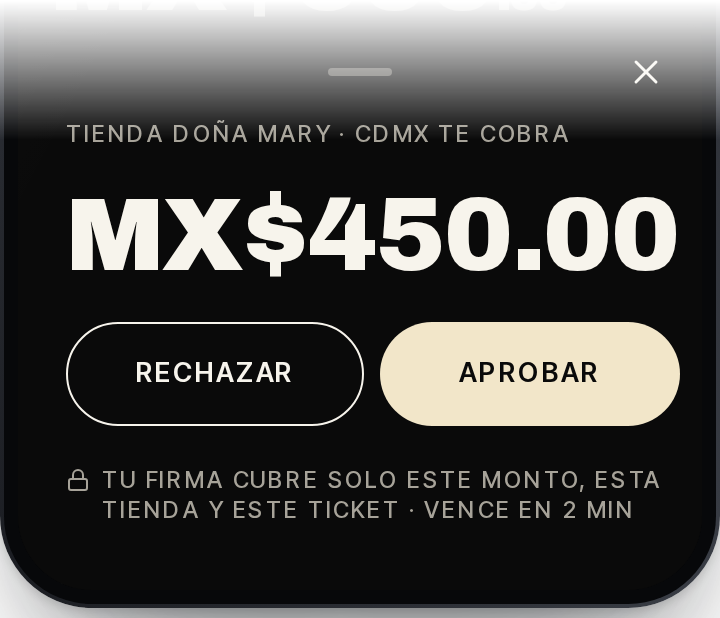
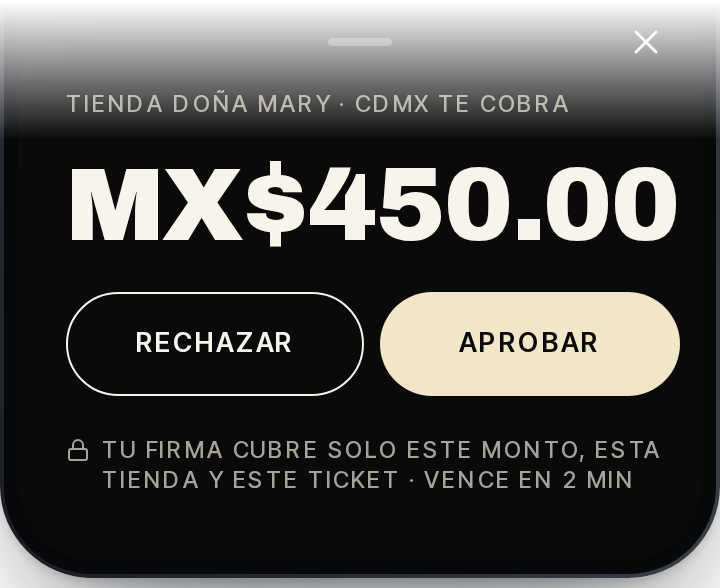
deck v8: sarape cover title (bright, high contrast), act-card cropped below the cut number, 1920x1080 previews of all 13 slides in deck/preview/v8

diff --git a/deck/project/slides/card.html b/deck/project/slides/card.html
@@ -9,7 +9,7 @@
 <svg style="position:absolute;left:710px;top:648px" width="44" height="20" viewBox="0 0 44 20"><path d="M2 10 H38 M30 3 L38 10 L30 17" stroke="#5A5A5A" stroke-width="2.5" fill="none" stroke-linecap="round" stroke-linejoin="round"/></svg>
 <div data-build-in="rise 5" style="position:absolute;left:760px;top:614px;width:260px;display:flex;flex-direction:column;gap:18px"><div style="width:88px;height:88px;border-radius:50%;border:2px solid #F2E6C9;display:flex;align-items:center;justify-content:center"><svg width="42" height="42" viewBox="0 0 24 24" fill="none" stroke="#F2E6C9" stroke-width="1.75" stroke-linecap="round" stroke-linejoin="round"><path d="M12 17V7"/><path d="M16 8h-6a2 2 0 0 0 0 4h4a2 2 0 0 1 0 4H8"/><path d="M4 3a1 1 0 0 1 1-1 1.3 1.3 0 0 1 .7.2l.933.6a1.3 1.3 0 0 0 1.4 0l.934-.6a1.3 1.3 0 0 1 1.4 0l.933.6a1.3 1.3 0 0 0 1.4 0l.933-.6a1.3 1.3 0 0 1 1.4 0l.934.6a1.3 1.3 0 0 0 1.4 0l.933-.6A1.3 1.3 0 0 1 19 2a1 1 0 0 1 1 1v18a1 1 0 0 1-1 1 1.3 1.3 0 0 1-.7-.2l-.933-.6a1.3 1.3 0 0 0-1.4 0l-.934.6a1.3 1.3 0 0 1-1.4 0l-.933-.6a1.3 1.3 0 0 0-1.4 0l-.933.6a1.3 1.3 0 0 1-1.4 0l-.934-.6a1.3 1.3 0 0 0-1.4 0l-.933.6a1.3 1.3 0 0 1-.7.2 1 1 0 0 1-1-1z"/></svg></div><p style="font-size:20px;text-transform:uppercase;letter-spacing:3px;font-weight:600;color:#8A8A8A">03</p><p style="font-size:32px;font-weight:600;line-height:1.2;color:#FFFFFF">Paid, with receipt</p></div>
 <p data-build-in="fade 6" style="position:absolute;left:128px;top:892px;width:960px;font-size:24px;text-transform:uppercase;letter-spacing:3px;font-weight:600;color:#8A8A8A">Local piece · <span style="color:#F2E6C9">a merchant acquiring partner</span></p>
-<img data-build-in="fade 6" src="/_blob/113d399841397bf0aede384ffb100f5b" alt="Mercado Card: Tienda Doña Mary asks for MX$450, with Rechazar and Aprobar, before approving" style="position:absolute;left:1191px;top:324px;width:560px;height:481px;object-fit:contain">
+<img data-build-in="fade 6" src="/_blob/113d399841397bf0aede384ffb100f5b" alt="Mercado Card: Tienda Doña Mary asks for MX$450, with Rechazar and Aprobar, before approving" style="position:absolute;left:1191px;top:336px;width:560px;height:457px;object-fit:contain">
 <p style="position:absolute;left:128px;bottom:64px;width:1200px;font-family:'Inter Tight', Arial, sans-serif;font-size:24px;color:#8A8A8A;text-transform:uppercase;letter-spacing:3px;font-weight:600">Mercado</p>
 <p style="position:absolute;right:128px;bottom:64px;width:120px;font-family:'Inter Tight', Arial, sans-serif;font-size:24px;text-align:right;color:#8A8A8A;text-transform:uppercase;letter-spacing:3px;font-weight:600">07</p>
 <aside>Card spends it: the shop requests, the customer approves that exact amount on the phone, and both get a receipt.</aside>
